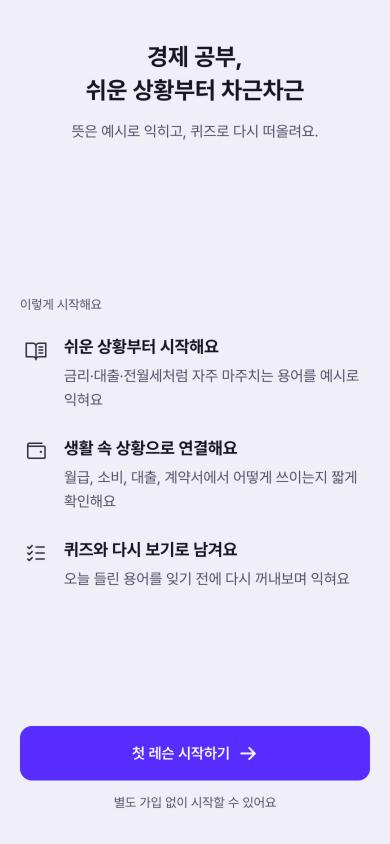
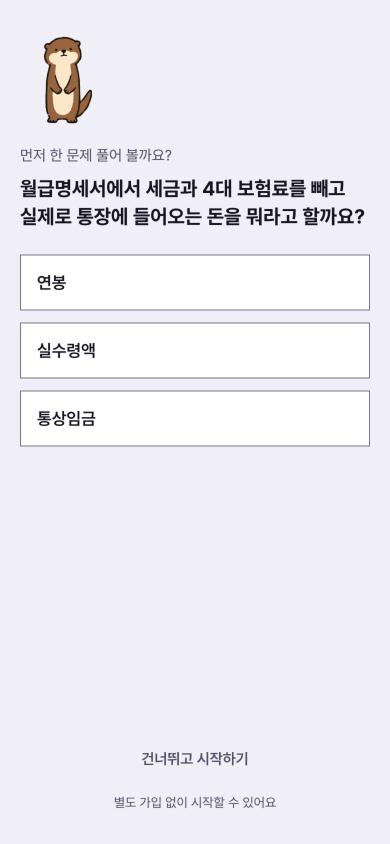
온보딩을 수달과 체험 문제 1개로 바꾸고 뉴스 썸네일 제거 - 온보딩: 기능 소개 3줄을 지우고 기본 포즈 수달 + 바로 풀어보는 문제 1개(실수령액). 답하면 정답·설명 표시, 답 전에는 건너뛰기를 글자 버튼으로 - 퀘스트 요약 수달은 미션을 모두 완료했을 때만 만세 포즈로 표시 - 단어 카드 뉴스 목록에서 기사 원문 썸네일(og:image)을 빼고 제목·요약만 표시(언론사 저작물) - 캐릭터 바이블·DESIGN.md 사용처 갱신, 온보딩·퀘스트 스크린샷 갱신

diff --git a/src/App.tsx b/src/App.tsx
@@ -19,7 +19,7 @@ import { LeagueRankCelebration } from './components/league/LeagueRankCelebration
 import { PointCelebration } from './components/PointCelebration';
 import { SplashScreen } from './components/SplashScreen';
 import { useTapHaptics } from './hooks/useTapHaptics';
-import { ArrowRight, BookOpenText, WalletCards, ListChecks } from './components/ui/OtterIcons';
+import { ArrowRight } from './components/ui/OtterIcons';
 import { Storage } from './lib/storage';
 
 const HomeScreen = React.lazy(() => import('./pages/HomeScreen'));
@@ -67,54 +67,69 @@ class ErrorBoundary extends Component<{ children: ReactNode }, { error: Error | 
 const LoadingScreen = SplashScreen;
 
 const WELCOME_KEY = 'welcome_seen_v1';
-const WELCOME_STEPS = [
-  { icon: BookOpenText, color: 'text-[var(--color-ink-2)]', title: '쉬운 상황부터 시작해요', desc: '금리·대출·전월세처럼 자주 마주치는 용어를 예시로 익혀요' },
-  { icon: WalletCards, color: 'text-[var(--color-ink-2)]', title: '생활 속 상황으로 연결해요', desc: '월급, 소비, 대출, 계약서에서 어떻게 쓰이는지 짧게 확인해요' },
-  { icon: ListChecks, color: 'text-[var(--color-ink-2)]', title: '퀴즈와 다시 보기로 남겨요', desc: '오늘 들린 용어를 잊기 전에 다시 꺼내보며 익혀요' },
-];
+// 소개 문구 대신 첫 화면에서 바로 한 문제를 풀어 본다. 기록·XP와 무관한 체험용 문제다
+const WELCOME_QUIZ = {
+  question: '월급명세서에서 세금과 4대 보험료를 빼고 실제로 통장에 들어오는 돈을 뭐라고 할까요?',
+  options: ['연봉', '실수령액', '통상임금'],
+  answer: '실수령액',
+  explain: '연봉은 세금을 빼기 전 1년 치 금액이에요. 실제로 받는 돈은 실수령액이라고 해요.',
+};
 
 const WelcomeScreen = () => {
   const navigate = useNavigate();
+  const [picked, setPicked] = React.useState<string | null>(null);
   const start = async () => {
     await Storage.setItem(WELCOME_KEY, '1').catch(() => {});
-    logClick('welcome_start');
+    logClick('welcome_start', { answered: picked ? 1 : 0, correct: picked === WELCOME_QUIZ.answer ? 1 : 0 });
     navigate('/course', { replace: true });
   };
+  const correct = picked === WELCOME_QUIZ.answer;
 
   return (
     <div className="app-soft-screen flex h-full flex-col">
-      <div className="flex flex-1 flex-col overflow-y-auto [&::-webkit-scrollbar]:hidden">
-        <div className="flex shrink-0 flex-col items-center px-6 pb-4 pt-10 text-center">
-          <h1 className="text-2xl font-bold leading-snug text-[var(--color-ink)] break-keep">
-            경제 공부,<br />쉬운 상황부터 차근차근
-          </h1>
-          <p className="mt-3 text-sm leading-relaxed text-[var(--color-ink-3)] break-keep">뜻은 예시로 익히고, 퀴즈로 다시 떠올려요.</p>
+      <div className="flex flex-1 flex-col overflow-y-auto px-5 pt-8 pb-4 [&::-webkit-scrollbar]:hidden">
+        <img src="/otter/v5/otter-idle.svg" data-otter="idle" alt="" aria-hidden="true" width={96} height={96} className="shrink-0" />
+        <p className="mt-4 text-sm text-[var(--color-ink-3)]">먼저 한 문제 풀어 볼까요?</p>
+        <h1 className="mt-2 text-xl font-bold leading-snug text-[var(--color-ink)] break-keep">{WELCOME_QUIZ.question}</h1>
+
+        <div className="mt-6 flex flex-col gap-3">
+          {WELCOME_QUIZ.options.map(opt => {
+            const graded = picked !== null;
+            const isAnswer = opt === WELCOME_QUIZ.answer;
+            const style = !graded ? 'bg-[var(--color-card)] border-transparent text-[var(--color-ink)] active:bg-[var(--color-surface)]'
+              : isAnswer ? 'bg-[var(--color-success-soft)] border-[var(--color-success-foreground)] text-[var(--color-ink)]'
+              : opt === picked ? 'bg-[var(--color-card)] border-[var(--color-danger-line)] text-[var(--color-ink)]'
+              : 'bg-[var(--color-card)] border-transparent text-[var(--color-ink-3)]';
+            return (
+              <button key={opt} type="button" disabled={graded} aria-pressed={opt === picked} onClick={() => setPicked(opt)}
+                className={`quiz-option flex min-h-[56px] items-center justify-between gap-3 border px-4 py-3 text-left text-base font-semibold ${style}`}>
+                {opt}
+                {graded && isAnswer && <span className="shrink-0 text-xs font-bold text-[var(--color-success-foreground)]">정답</span>}
+                {graded && !isAnswer && opt === picked && <span className="shrink-0 text-xs font-bold text-[var(--color-danger-foreground)]">내 답</span>}
+              </button>
+            );
+          })}
         </div>
 
-        {/* 남는 높이의 가운데에 단계 카드를 둔다. 화면이 작으면 그대로 스크롤된다 */}
-        <div className="flex flex-1 flex-col justify-center px-5 pt-7 pb-4">
-          <p className="mb-5 text-xs text-[var(--color-ink-3)]">이렇게 시작해요</p>
-          <ol className="flex flex-col gap-6">
-            {WELCOME_STEPS.map(({ icon: Icon, color, title, desc }) => (
-              <li key={title} className="flex items-start gap-3">
-                <span aria-hidden="true" className={`flex h-8 w-8 shrink-0 items-center justify-center ${color}`}>
-                  <Icon size={24} />
-                </span>
-                <span className="min-w-0">
-                  <span className="block text-base font-bold text-[var(--color-ink)]">{title}</span>
-                  <span className="mt-1 block text-sm leading-relaxed text-[var(--color-ink-3)] break-keep">{desc}</span>
-                </span>
-              </li>
-            ))}
-          </ol>
-        </div>
+        {picked && (
+          <p role="status" className="mt-5 text-sm leading-relaxed text-[var(--color-ink-2)] break-keep">
+            <strong className="text-[var(--color-ink)]">{correct ? '맞아요! ' : '아쉬워요. '}</strong>{WELCOME_QUIZ.explain}
+          </p>
+        )}
       </div>
 
       <div className="shrink-0 px-5 pb-8 pt-3 text-center">
-        <button type="button" onClick={start}
-          className="flex w-full items-center justify-center gap-2 rounded-button bg-brand-500 py-4 text-base font-bold active:opacity-90">
-          첫 레슨 시작하기<ArrowRight size={20} />
-        </button>
+        {/* 답하기 전에는 문제가 주행동이라 건너뛰기는 글자 버튼으로 약하게 둔다 */}
+        {picked ? (
+          <button type="button" onClick={start}
+            className="flex w-full items-center justify-center gap-2 rounded-button bg-brand-500 py-4 text-base font-bold active:opacity-90">
+            이런 용어부터 배워 볼게요<ArrowRight size={20} />
+          </button>
+        ) : (
+          <button type="button" onClick={start} className="min-h-[44px] w-full text-sm font-semibold text-[var(--color-ink-3)] active:opacity-60">
+            건너뛰고 시작하기
+          </button>
+        )}
         <p className="mt-3! text-xs text-[var(--color-ink-4)]">별도 가입 없이 시작할 수 있어요</p>
       </div>
     </div>

diff --git a/src/pages/WordCardScreen.tsx b/src/pages/WordCardScreen.tsx
@@ -99,7 +99,7 @@ const WordCard = ({
     {/* 글로 된 '쉽게 설명'은 핵심 뜻과 겹쳐서 자세히 보기 시트로 옮기고, 본문에는 그래프·표만 둔다 */}
     {word.visuals && word.visuals.some(v => v.type !== 'text') && <WordVisuals visuals={word.visuals.filter(v => v.type !== 'text')} terms={visualTerms} />}
 
-    {/* 뉴스 — 사진보다 '이 용어가 기사에서 어떻게 쓰였는지'가 보이게 작은 썸네일 목록. 불러온 뒤 기사가 없으면 섹션째 숨긴다 */}
+    {/* 뉴스 — '이 용어가 기사에서 어떻게 쓰였는지'가 보이게 제목·요약 목록. 불러온 뒤 기사가 없으면 섹션째 숨긴다 */}
     {(newsLoading || newsItems.length > 0) && (
     <Card pad="md" className="flex flex-col">
       <h3 className="pb-1 text-base font-bold text-[var(--color-ink)] break-keep">실제 뉴스에서는 이렇게 나와요</h3>
@@ -110,7 +110,6 @@ const WordCard = ({
               <div className="h-3.5 bg-[var(--color-surface)] rounded animate-pulse" style={{ width: '90%' }} />
               <div className="h-3.5 bg-[var(--color-surface)] rounded animate-pulse" style={{ width: '60%' }} />
             </div>
-            <div className="h-[72px] w-[72px] shrink-0 rounded-chip bg-[var(--color-surface)] animate-pulse" />
           </div>
         ))
       ) : newsItems.map((item, i) => (
@@ -133,16 +132,8 @@ const WordCard = ({
               {new Date(item.pubDate).toLocaleDateString('ko-KR', { month: 'short', day: 'numeric' })} · 네이버 뉴스
             </p>
           </div>
-          {item.image ? (
-            // 불러오지 못하면 썸네일 자리만 숨긴다
-            <img
-              src={item.image}
-              alt=""
-              referrerPolicy="no-referrer"
-              onError={e => { e.currentTarget.style.display = 'none'; }}
-              className="h-[72px] w-[72px] shrink-0 rounded-chip object-cover bg-[var(--color-surface)]"
-            />
-          ) : <ExternalLink size={16} className="text-[var(--color-ink-3)] shrink-0 mt-1" />}
+          {/* 기사 사진은 언론사 저작물이라 쓰지 않는다 */}
+          <ExternalLink size={16} className="text-[var(--color-ink-3)] shrink-0 mt-1" />
         </button>
       ))}
     </Card>

diff --git a/src/pages/HomeScreen.tsx b/src/pages/HomeScreen.tsx
@@ -41,7 +41,7 @@ const HomeScreen = () => {
       <div className="pt-4 px-5 pb-4">
         <h2 className="type-page-title mb-4!">퀘스트</h2>
         {missionList.length > 0 && <section className="quest-hero" aria-label="오늘의 미션 요약">
-          <img className="quest-hero-character" src={`/otter/v5/otter-${allMissionsDone ? 'cheer' : 'idle'}.svg`} data-otter={allMissionsDone ? 'cheer' : 'idle'} alt="" aria-hidden="true" width={72} height={72} />
+          {allMissionsDone && <img className="quest-hero-character" src="/otter/v5/otter-cheer.svg" data-otter="cheer" alt="" aria-hidden="true" width={72} height={72} />}
           <div className="min-w-0 flex-1">
             <p className="type-supporting">{allMissionsDone ? '오늘 미션을 모두 마쳤어요' : '오늘의 미션'}</p>
             <p className="quest-hero-count"><strong>{doneMissions}</strong> / {missionList.length} 완료</p>

diff --git a/docs/CHARACTER_BIBLE.md b/docs/CHARACTER_BIBLE.md
@@ -36,7 +36,7 @@
 
 | 포즈           | 파일명    | 모습                       | 쓰는 곳                        |
 | -------------- | --------- | -------------------------- | ------------------------------ |
-| 기본           | `idle`    | 두 손을 모으고 서 있음     | 퀘스트 요약(진행 중)           |
+| 기본           | `idle`    | 두 손을 모으고 서 있음     | 온보딩 첫 화면                 |
 | 만세           | `cheer`   | 두 팔을 들고 웃음          | 학습 완료, 퀘스트 미션 모두 완료 |
 | 설명           | `explain` | 한 손가락을 들고 웃음      | 홈 오늘 할 학습                |
 | 놀람           | `shock`   | 두 손으로 얼굴을 감싸고 입을 벌림, 머리 위 효과선 | 아직 없음(연속 학습 끊김·에너지 부족 후보) |
@@ -54,7 +54,8 @@
 | 자리            | 포즈                | 크기  | 코드                                   |
 | --------------- | ------------------- | ----- | -------------------------------------- |
 | 홈 오늘 할 학습 | 설명                | 88px  | `CourseScreen.tsx`                     |
-| 퀘스트 요약     | 기본, 모두 완료면 만세 | 72px  | `HomeScreen.tsx`                       |
+| 온보딩 첫 화면  | 기본                | 96px  | `App.tsx` `WelcomeScreen`              |
+| 퀘스트 요약     | 만세(미션을 모두 완료했을 때만) | 72px  | `HomeScreen.tsx`                       |
 | 학습 완료       | 만세                | 128px | `LearningCompletionScreen.tsx`         |
 | 사용자 아바타   | -                   | -     | **쓰지 않는다**(7절)                   |
 

diff --git a/DESIGN.md b/DESIGN.md
@@ -207,7 +207,7 @@
 
 ### 퀘스트 (`/home`)
 
-- 요약: 수달, `N / M 완료`, 전체 진행 막대.
+- 요약: `N / M 완료`, 전체 진행 막대. 미션을 모두 마치면 만세 수달이 붙는다.
 - 미션 목록: 구분선 목록. 각 행은 미션 이름, XP 아이콘 + 보상 XP, 진행 칸. 받은 미션은 흐리게, 취소선은 쓰지 않는다. 미션 제목 아래 문구는 받을 보상이 있을 때만.
 
 ### 리그 (`/league`)
